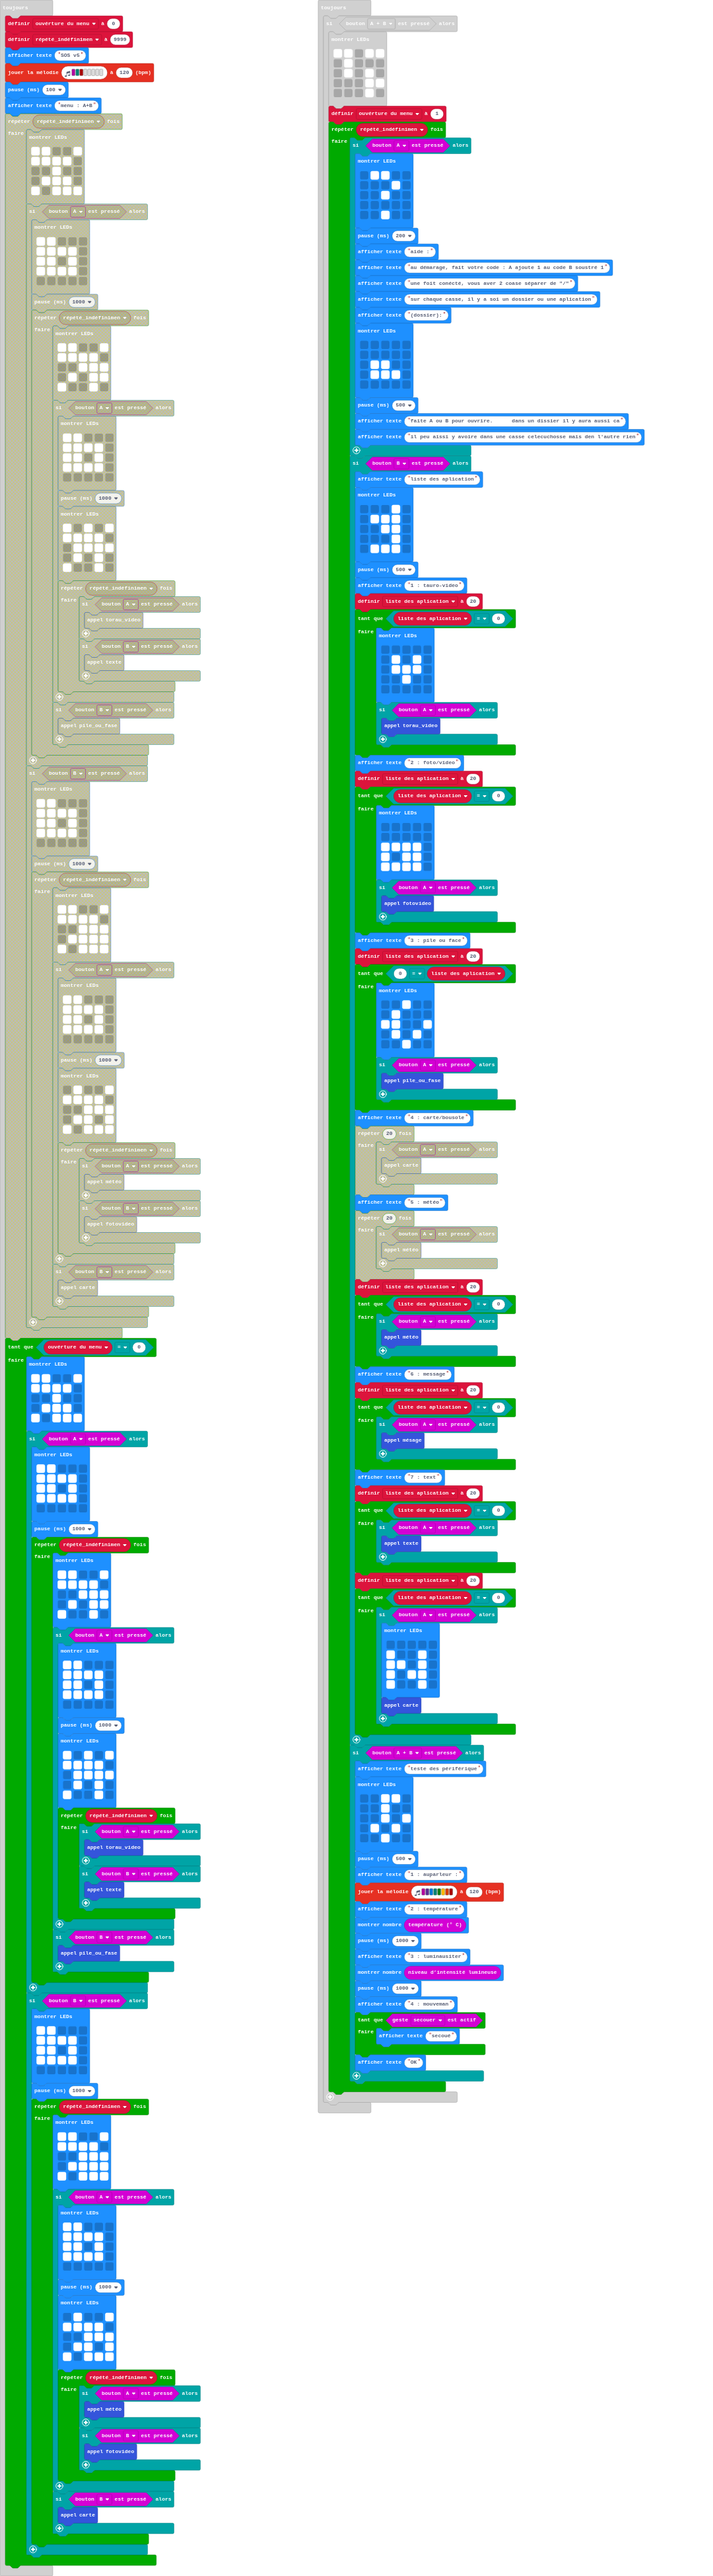
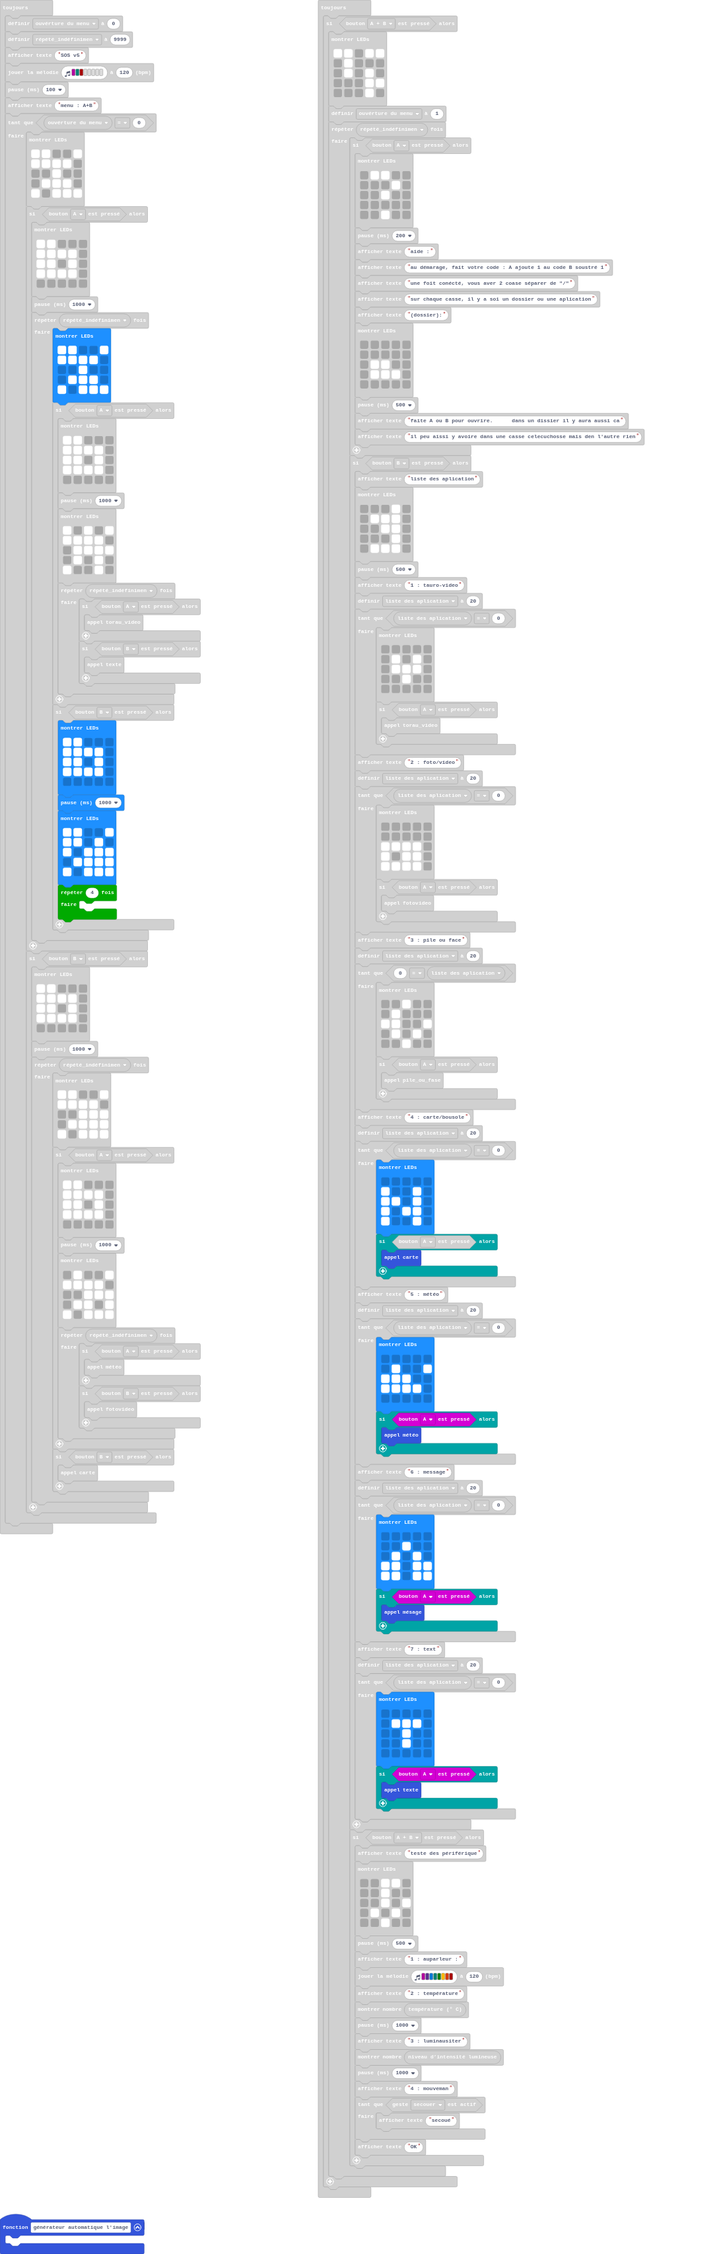
Mise à jour main.blocks, main.ts

diff --git a/main.ts b/main.ts
@@ -669,6 +669,9 @@ function fotovideo () {
         }
     }
 }
+function générateur_automatique_limage () {
+	
+}
 function texte () {
     basic.showLeds(`
         . # # # .
@@ -741,9 +744,9 @@ basic.forever(function () {
                 basic.showLeds(`
                     # # . . #
                     # # # # .
-                    . . # # #
-                    . # . # #
-                    # . . # .
+                    . . # . .
+                    . # # # .
+                    # . # # #
                     `)
                 if (input.buttonIsPressed(Button.A)) {
                     basic.showLeds(`
@@ -771,7 +774,24 @@ basic.forever(function () {
                     }
                 }
                 if (input.buttonIsPressed(Button.B)) {
-                    pile_ou_fase()
+                    basic.showLeds(`
+                        # # . . .
+                        # # # # .
+                        # # . # .
+                        # # # # .
+                        . . . . .
+                        `)
+                    basic.pause(1000)
+                    basic.showLeds(`
+                        # # . . #
+                        # # . # .
+                        # . # # #
+                        . # # # #
+                        # . # # #
+                        `)
+                    for (let index = 0; index < 4; index++) {
+                    	
+                    }
                 }
             }
         }
@@ -915,20 +935,27 @@ basic.forever(function () {
                 basic.showString("4 : carte/bousole")
                 liste_des_aplication = 20
                 while (liste_des_aplication == 0) {
+                    basic.showLeds(`
+                        . . . . .
+                        # . . # .
+                        # # . # .
+                        # . # # .
+                        # . . # .
+                        `)
                     if (input.buttonIsPressed(Button.A)) {
-                        basic.showLeds(`
-                            . . . . .
-                            # . . # .
-                            # # . # .
-                            # . # # .
-                            # . . # .
-                            `)
                         carte()
                     }
                 }
                 basic.showString("5 : météo")
                 liste_des_aplication = 20
                 while (liste_des_aplication == 0) {
+                    basic.showLeds(`
+                        . . . . .
+                        . # . . #
+                        # # # . .
+                        # # # # .
+                        . . . . .
+                        `)
                     if (input.buttonIsPressed(Button.A)) {
                         météo()
                     }
@@ -936,6 +963,13 @@ basic.forever(function () {
                 basic.showString("6 : message")
                 liste_des_aplication = 20
                 while (liste_des_aplication == 0) {
+                    basic.showLeds(`
+                        . . . . .
+                        . . # . .
+                        . # . # .
+                        # # . # #
+                        # # . # #
+                        `)
                     if (input.buttonIsPressed(Button.A)) {
                         mésage()
                     }
@@ -943,6 +977,13 @@ basic.forever(function () {
                 basic.showString("7 : text")
                 liste_des_aplication = 20
                 while (liste_des_aplication == 0) {
+                    basic.showLeds(`
+                        . . . . .
+                        . # # # .
+                        . . # . .
+                        . . # . .
+                        . . . . .
+                        `)
                     if (input.buttonIsPressed(Button.A)) {
                         texte()
                     }
